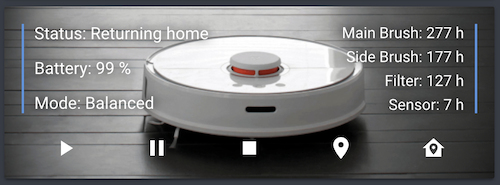
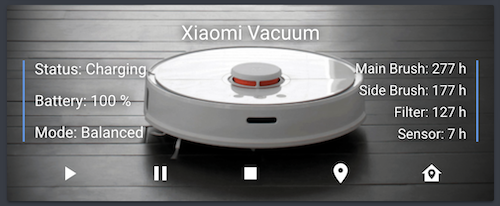
Support friendly/custom name

diff --git a/xiaomi-vacuum-card.js b/xiaomi-vacuum-card.js
@@ -8,6 +8,14 @@ class XiaomiVacuumCard extends Polymer.Element {
               background-position: center center;
               background-size: cover;
             }
+            .title {
+              font-size: 20px;
+              padding: 16px 16px 0;
+              text-align: center;
+              white-space: nowrap;
+              text-overflow: ellipsis;
+              overflow: hidden;
+            }
             .content {
               cursor: pointer;
             }
@@ -42,6 +50,9 @@ class XiaomiVacuumCard extends Polymer.Element {
             }
           </style>
           <ha-card hass="[[_hass]]" config="[[_config]]" class="background" style="[[background]]">
+            <template is="dom-if" if="{{name}}">
+              <div class="title" style="[[text]]">[[name]]</div>
+            </template>
             <div class="content" on-click="moreInfo" style="[[padding]]">
               <div class="grid" style="[[text]]">
                 <div class="grid-content grid-left">
@@ -104,6 +115,8 @@ class XiaomiVacuumCard extends Polymer.Element {
     }
 
     getCardSize() {
+        if (this.name && this.buttons) return 5;
+        if (this.name || this.buttons) return 4;
         return 3;
     }
 
@@ -124,6 +137,10 @@ class XiaomiVacuumCard extends Polymer.Element {
 
         if (hass && this._config) {
             this.stateObj = this._config.entity in hass.states ? hass.states[this._config.entity] : null;
+
+            if (this.stateObj) {
+                this.name = this._config.name !== false && (this._config.name || this.stateObj.attributes.friendly_name);
+            }
         }
     }
 }

diff --git a/README.md b/README.md
@@ -19,12 +19,17 @@ If you want to use the vacuum background image, add [img/vacuum.png](https://raw
 | ---- | ---- | ------- | -----------
 | type | string | **Required** | `custom:xiaomi-vacuum-card`
 | entity | string | **Required** | `vacuum.my_xiaomi_vacuum`
+| name | string/bool | `friendly_name` | Override entity friendly name (set to false to hide title)
 | background | string/bool | `img/vacuum.png` | Custom path/name of background image (set to false to disable background)
 | buttons | bool | `true` | Set to false to hide button row
 
 ### Examples
 
 ![xiaomi-vacuum-card](https://raw.githubusercontent.com/benct/lovelace-xiaomi-vacuum-card/master/examples/default.png)
+
+Hidden title/name
+
+![xiaomi-vacuum-card-no-title](https://raw.githubusercontent.com/benct/lovelace-xiaomi-vacuum-card/master/examples/no-title.png)
 
 Hidden button row
 
@@ -38,6 +43,7 @@ No background image
 - type: custom:xiaomi-vacuum-card
   entity: vacuum.xiaomi_vacuum_cleaner
   background: custom/folder/and/file.png
+  name: Xiaomi Vacuum
   buttons: false
 ```
 
